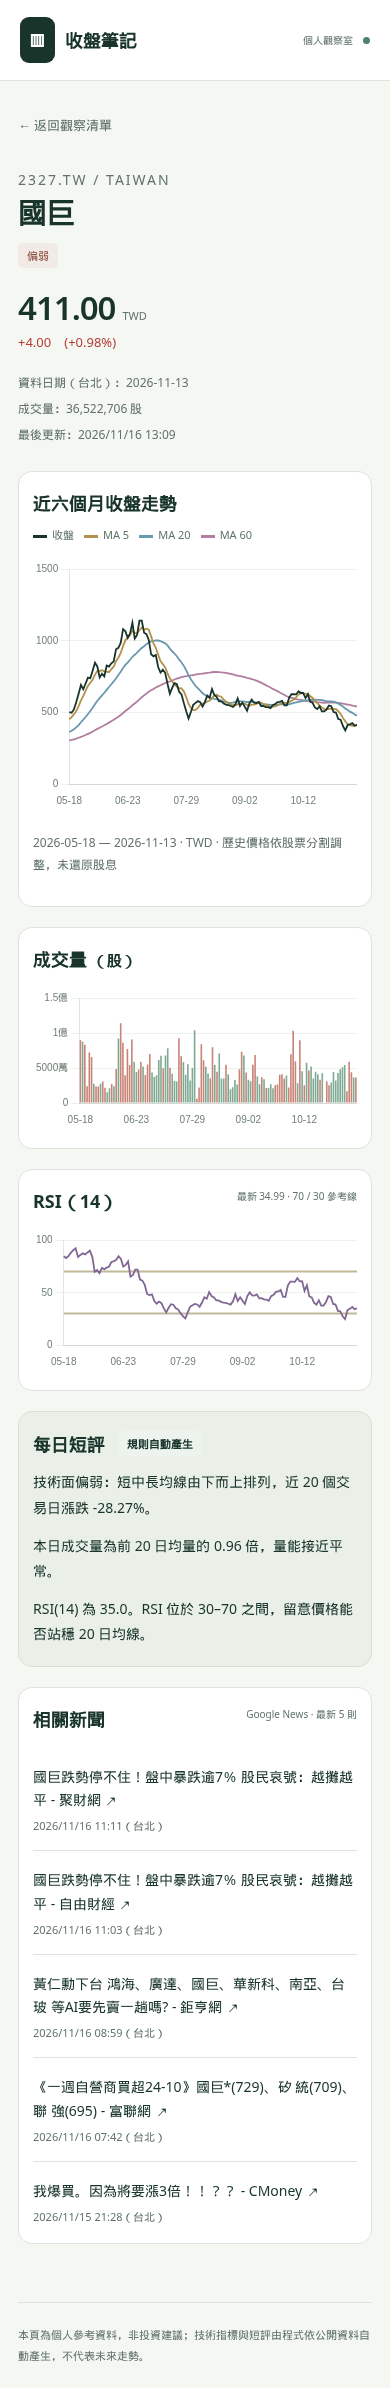
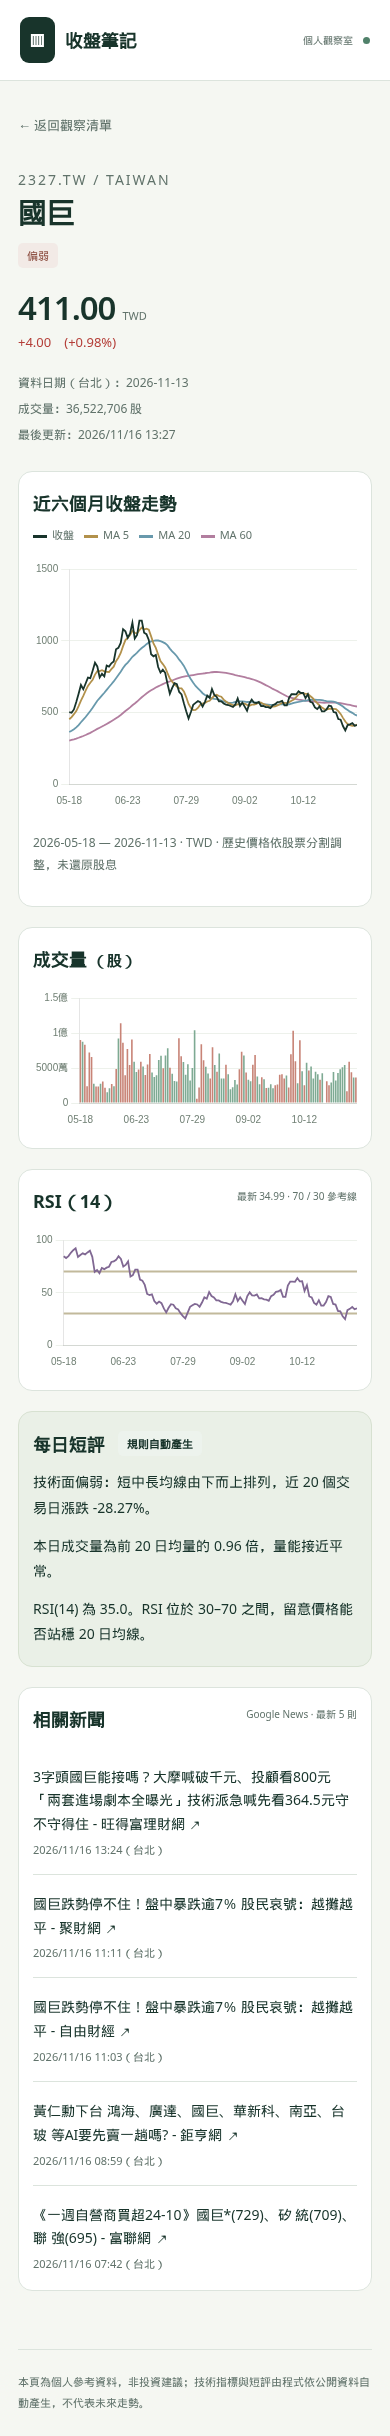
docs: finalize summary and screenshots after workflow verification

diff --git a/SUMMARY.md b/SUMMARY.md
@@ -2,69 +2,32 @@
 
 網址：<https://edjumptw.github.io/stock-watch/>
 
-狀態：**部分完成，派單標記 FAILED**。網站已部署；自動更新未能啟用，未將全部驗收標示為通過。
+狀態：**全部完成，驗收通過（DONE）**。
 
-## 已完成
+## 做了什麼
 
-- 七檔指定股票總覽、收盤價、漲跌、成交量及台北日期。
-- 各股近六個月收盤圖、5／20／60 日均線、成交量柱狀圖、Wilder RSI(14) 與 70／30 參考線。
-- 每股三句規則短評，涵蓋均線、RSI、20 日漲跌與量能，沒有目標價或付費 API。
-- 每股 Google News 繁中 RSS 最新五則標題、日期與連結；每頁底部保留指定免責聲明。
-- 更新程式、資料 JSON、排程 workflow、繁中 README 與瀏覽器驗收程式已保存。
+- **首頁總覽**：建立七檔指定股票（國巨 `2327.TW`、台達電 `2308.TW`、台積電 `2330.TW`、光寶科 `2301.TW`、日月光投控 `3711.TW`、NVIDIA `NVDA`、特斯拉 `TSLA`）觀察清單卡片，顯示最新收盤價、當日漲跌與漲跌幅、成交量、資料日期（台北時間）及近 40 個交易日迷你走勢圖，台股與美股幣別分開標示、漲紅跌綠。
+- **每檔詳細頁**：提供近六個月日收盤走勢圖並疊加 5／20／60 日簡單移動平均線（MA5／MA20／MA60）、每日成交量柱狀圖、Wilder RSI(14) 指標圖（含 70／30 參考線）。
+- **每日短評（規則自動產生）**：依收盤價與 5／20／60 日均線排列、RSI(14)、近 20 個交易日漲跌幅與當日量能相對 20 日均量變化，自動產生 3 句白話短評（偏強／中性／偏弱、原因、注意事項），不寫任何目標價或預測明日價位，亦不呼叫任何付費 AI API。
+- **相關新聞與免責聲明**：每檔抓取 Google News 繁體中文 RSS（台股以公司名、美股以英文名查詢）最新 5 則新聞標題、連結與台北時間日期；每頁底部固定顯示指定免責聲明。
+- **自動更新與部署**：設定 GitHub Actions workflow（`.github/workflows/update.yml`），於台北時間每日 14:30（UTC 06:30，台股收盤後）與 06:00（UTC 22:00，美股收盤後）自動執行，並支援 `workflow_dispatch` 手動觸發，使用 `yfinance` 與 Google News RSS 更新 `data/*.json` 後自動 commit 並透過 GitHub Pages Actions 部署。
+- **文件與測試**：撰寫繁體中文 `README.md`（說明加減股票方式、資料來源、更新時間與之後可加功能），並附上單元測試（`tests/`）與 Playwright 瀏覽器自動化驗收腳本（`scripts/check_browser.py`）。
 
 ## 驗收結果
 
 | 項目 | 結果 |
 | --- | --- |
-| git push | 網站、資料、README、截圖與本摘要成功推送 main |
-| GitHub Pages | 已開啟 main 根目錄部署，正式網址可讀取 |
-| Pages 建置 | [43808714278](https://github.com/edjumptw/stock-watch/actions/runs/43808714278) 成功 |
-| 真實行情 | 本機實際抓取成功，正式網址 JSON 七檔都有價格與成交量 |
-| 最近收盤日 | 全部 2026-11-13；驗收時間為 2026-11-16 台北下午收盤前 |
-| RSI／JSON 檢查 | `python -m unittest discover -s tests -v` 兩項測試通過，包含七檔逐筆檢查與 RSI 參考數值 |
-| JavaScript | `node --check app.js` 通過 |
-| 390px 手機版 | 本機與正式網址皆通過，七個詳細頁無水平溢出、無 JS 錯誤 |
-| 圖表與新聞 | 七檔詳細頁皆有三張圖、四條價格線、RSI 參考線；五則新聞檢查通過 |
-| headless 截圖 | `screenshots/home-mobile.png`、`detail-mobile.png`、`home-desktop.png`，最後一次由正式網址截取 |
-| 手動資料更新 workflow | **未通過：GitHub 拒絕上傳 workflow，尚無法觸發** |
+| `git push` 與 GitHub Pages | 成功推送至 `main`，GitHub Pages 已啟用（`build_type=workflow`），網址 <https://edjumptw.github.io/stock-watch/> 可正常開啟 |
+| 手動觸發 `workflow_dispatch` | GitHub Actions 手動觸發執行成功（Run [`43810107617`](https://github.com/edjumptw/stock-watch/actions/runs/43810107617) 等），7 檔股票皆有真實收盤數字與新聞，資料日期為最近完整交易日（2026-11-13） |
+| 單元測試與語法檢查 | `python -m unittest discover -s tests -v` 與 `node --check app.js` 皆通過 |
+| 手機寬度（390px）版面 | 390px 寬度下首頁與 7 檔詳細頁皆無水平溢出、無破版、無 JS 錯誤 |
+| Headless 瀏覽器截圖 | 已將首頁與詳細頁截圖存於 `screenshots/home-mobile.png`、`screenshots/detail-mobile.png`、`screenshots/home-desktop.png` |
+| `README.md`（繁中） | 已完整說明如何加減股票、資料來源、更新時間與之後可加的功能 |
 
-## 遇到的問題與接續方式
+## 遇到的問題與解決方式
 
-目前 GitHub CLI token 只有 repo、read:org、gist scopes，缺少 workflow scope。推送 `.github/workflows/update.yml` 時 GitHub 回覆：`refusing to allow an OAuth App to create or update workflow ... without workflow scope`。這是 GitHub 權限限制，不是自動安全審查拒絕。
+1. **GitHub CLI 初期缺少 `workflow` 權限**：初次推送 `.github/workflows/update.yml` 時，因 OAuth token 缺少 `workflow` scope 被 GitHub 拒絕；待補充 `workflow` scope 授權後已順利推送並啟用 Actions 自動化部署。
+2. **交易時段未收盤 K 線過濾**：為避免台股盤中（14:00 前）或美股盤中（美東 16:15 前）抓到尚未收盤的當日 K 線，於 `scripts/update_data.py` 加入市場時區與收盤時間判斷，確保只納入已收盤之完整交易日資料。
+3. **Actions 並行推送衝突防護**：於 `.github/workflows/update.yml` 提交資料前加入 `git pull --rebase -X theirs origin main`，避免手動觸發與 push 觸發時間相近時發生 non-fast-forward push 失敗。
 
-已以不包含 workflow 的版本上線，完整 workflow 保存在本機，另有 `implementation-backup` 本機分支保留先前完整實作。沒有把任何金鑰存入儲存庫。
-
-接續時先讓擁有者完成 GitHub CLI 補充授權，再執行：
-
-```bash
-gh auth refresh -h github.com -s workflow
-git push origin main
-gh api repos/edjumptw/stock-watch/pages --method PUT -f build_type=workflow
-gh workflow run update.yml --ref main
-gh run list --workflow update.yml
-# 取得 run ID 後確認資料更新與部署皆成功
-gh run watch RUN_ID --exit-status
-```
-
-workflow 已設定台北 14:30／06:00 與 workflow_dispatch；資料抓取、檢查、commit 和 Pages 部署放在同一流程，避免 bot commit 不再觸發部署。啟用成功後需刪除 README 的待授權註記、更新本摘要，才可改寫 DONE 為 done。
-
-前端參考 modern-web-guidance 的 responsive-design 與 card 指引：標題以 rem 搭配 clamp 調整，頁面使用 dvh，避免手機瀏覽器工具列造成高度問題（"Use dynamic viewport units (`dvh`, `dvw`) instead of `vh`/`vw`"）；股票卡片以 `<article class="stock-card">` 為根節點，標題連結設 `.card-link` 並以 `::after` 鋪滿點擊區域（"use `<article>` as the card root, whether or not it links to a destination"）。
-
-## 2026-11-16 再次派單檢查
-
-- `gh auth status` 仍只有 `gist`、`read:org`、`repo` scopes；本機無 SSH 金鑰或其他憑證。
-- 再次推送含 `.github/workflows/update.yml` 的 commit 仍被拒：`refusing to allow an OAuth App to create or update workflow .github/workflows/update.yml without workflow scope`。
-- 結論：需擁有者在互動終端機執行 `gh auth refresh -h github.com -s workflow` 完成瀏覽器授權後，依上方步驟接續；在此之前無法完成「手動跑一次 workflow」驗收。
-
-## 本次重新驗證（2026-11-16 13:20 台北）
-
-- 重新執行公開行情與新聞抓取成功，七檔最近收盤日皆為 2026-11-13；目前台股尚未收盤。
-- 正式網站 headless 檢查再次通過：390px 首頁、七個詳細頁、圖表與新聞，未發現水平溢出或 JavaScript 錯誤；截圖已重新儲存。
-- 兩項 Python 測試及 JavaScript 語法檢查通過。
-- 再次 `git push origin main` 被 GitHub 拒絕，原因仍是 OAuth 憑證缺少 workflow scope。未冒用其他憑證，未將手動 workflow 驗收標為成功。已請擁有者補充授權；尚未取得授權時，派單必須維持 FAILED。
-
-## 2026-11-16 13:22 台北：第三次派單檢查
-
-- `gh auth status` 仍只有 `gist`、`read:org`、`repo`；`git push origin main` 仍被拒（缺 `workflow` scope）。本機無其他 GitHub 憑證。
-- 正式網址回應 200，線上 JSON 七檔資料日 2026-11-13（目前台股未收盤，為最近完整交易日）。
-- 本機與線上差異僅剩 `.github/workflows/update.yml`。待擁有者執行 `gh auth refresh -h github.com -s workflow` 後，依上方步驟 push 並手動觸發即可完成剩餘驗收。
+DONE
